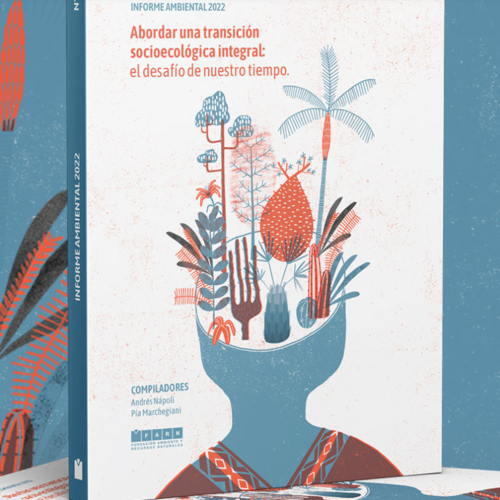
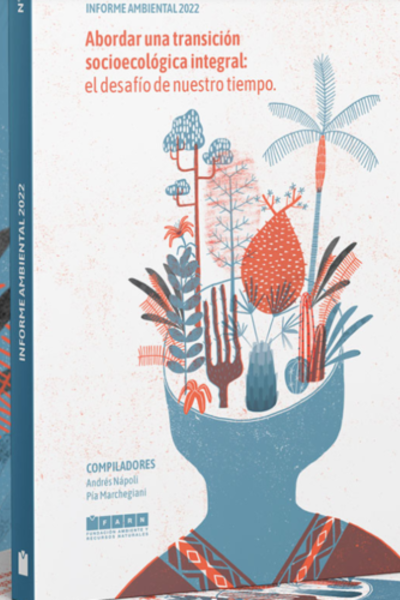
portadas tarjetas portfolio finalizada

diff --git a/css/stylePorfolio.css b/css/stylePorfolio.css
@@ -55,6 +55,11 @@
     background-color: #f9f6ee;
     box-shadow: 6px 6px 0px 0px rgba(37, 40, 42, .3);
 
+    display: flex;
+    flex-direction: column;
+    align-items: center;
+    justify-content: center;
+
 }
 
 .contenedorPortfolio .contenidoPortfolio .tarjeta:hover {
@@ -64,6 +69,7 @@
 
 .contenedorPortfolio .contenidoPortfolio .tarjeta .cintilloTarjeta {
     padding-top: 10px;
+    align-self: flex-start;
 
 }
 
@@ -111,7 +117,7 @@
     padding: 5px;
     border-top-right-radius: 5px;
     border-bottom-right-radius: 5px;
-}
+    }
 
 .contenedorPortfolio .contenidoPortfolio .tarjeta .tituloTarjeta {
     text-align: center;
@@ -124,6 +130,9 @@
     font-weight: 700;
 }
 
+.contenedorPortfolio .contenidoPortfolio .tarjeta .imgTarjeta img{
+    border-radius: 5px;
+}
 /* MODAL */
 .modal-dialog {
     max-width: 800px;
@@ -193,7 +202,7 @@
         display: flex;
         flex-direction: row;
         justify-content: center;
-        align-items: stretch;
+        align-items: center;
         flex-wrap: wrap;
     }
 
@@ -204,6 +213,10 @@
     .contenedorPortfolio .contenidoPortfolio .tarjeta .cintilloTarjeta h6 {
         font-size: 13px;
     }
+
+    .contenedorPortfolio .contenidoPortfolio .tarjeta .tituloTarjeta h5{
+        font-size: 19px;
+        }
     
 }
 
@@ -232,6 +245,15 @@
     .contenedorPortfolio .contenidoPortfolio .tarjeta .cintilloTarjeta h6 {
         font-size: 12px;
     }
+
+    .contenedorPortfolio .contenidoPortfolio .tarjeta .tituloTarjeta h5{
+        font-size: 18px;
+    }
+
+    .contenedorPortfolio .contenidoPortfolio .ratzkierArquitectura .tituloTarjeta h5, .contenedorPortfolio .contenidoPortfolio .epicaServiciosTuristicos .tituloTarjeta h5{
+        font-size: 16px;
+    }
+
 }
 
 /* Desde 1200px en adelante */
@@ -239,6 +261,9 @@
 @media (min-width: 1200px) {
     /* Tus estilos para dispositivos extra large y superiores van aquí */
 
+    .contenedorPortfolio .contenidoPortfolio .tarjeta .imgTarjeta {
+        padding-bottom: 20px;
+        }
     .contenedorPortfolio .contenidoPortfolio .tarjeta .cintilloTarjeta h6 {
         font-size: 14px;
     }

diff --git a/paginas/portfolio.html b/paginas/portfolio.html
@@ -85,7 +85,7 @@
                 </div>
                 <div class="imgTarjeta">
                     <a type="button" data-bs-toggle="modal" data-bs-target="#lamis2018"> <img class="img-fluid"
-                            src="../img/portfolioImg/lamis2018.jpg" alt="Tapa Guía Fundación Huesped"></a>
+                            src="../img/portfolioImg/lamis2018.png" alt="Tapa Guía Fundación Huesped"></a>
                 </div>
             </div>
 
@@ -198,7 +198,7 @@
                 </div>
                 <div class="imgTarjeta">
                     <a type="button" data-bs-toggle="modal" data-bs-target="#matedulab">
-                        <img class="rounded img-fluid" src="../img/portfolioImg/matedulab.jpg" alt="Matedulab logo"></a>
+                        <img class="rounded img-fluid" src="../img/portfolioImg/matedulab.png" alt="Matedulab logo"></a>
                 </div>
             </div>
 
